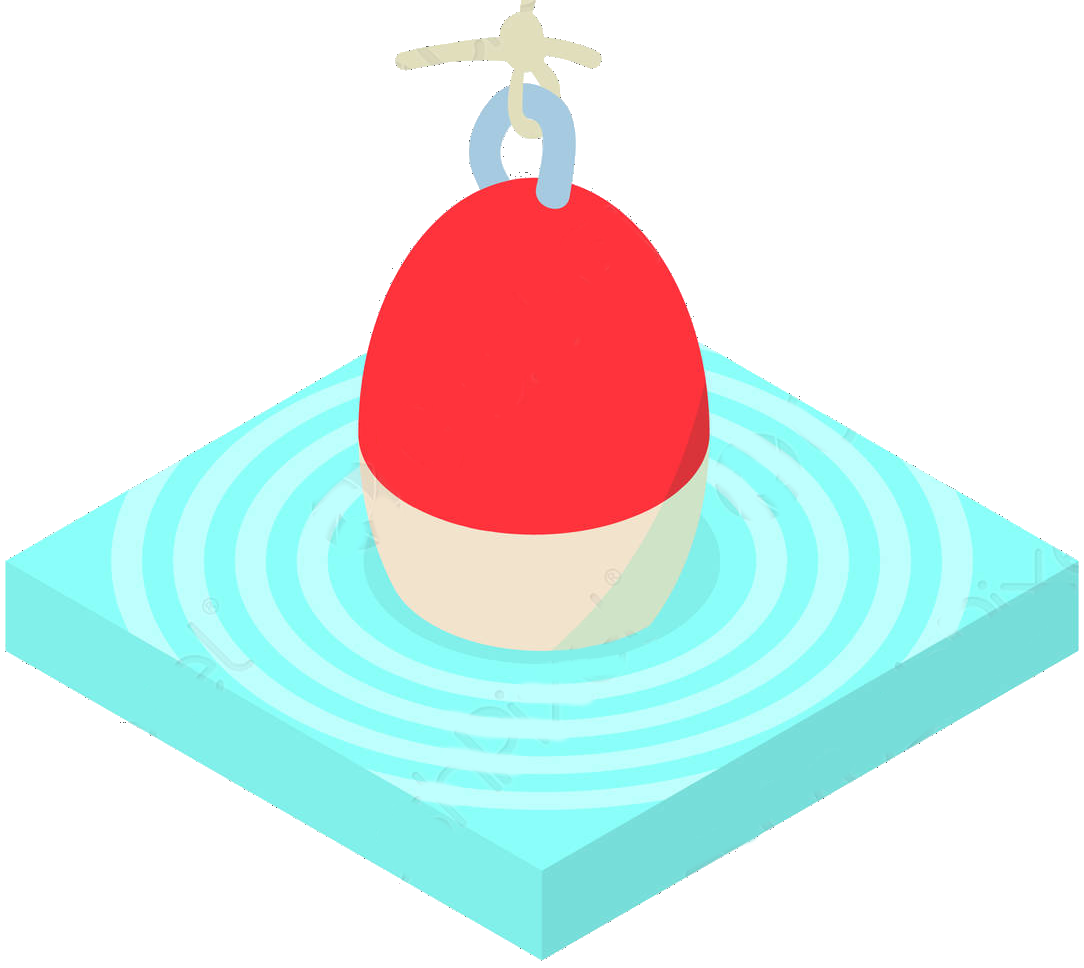
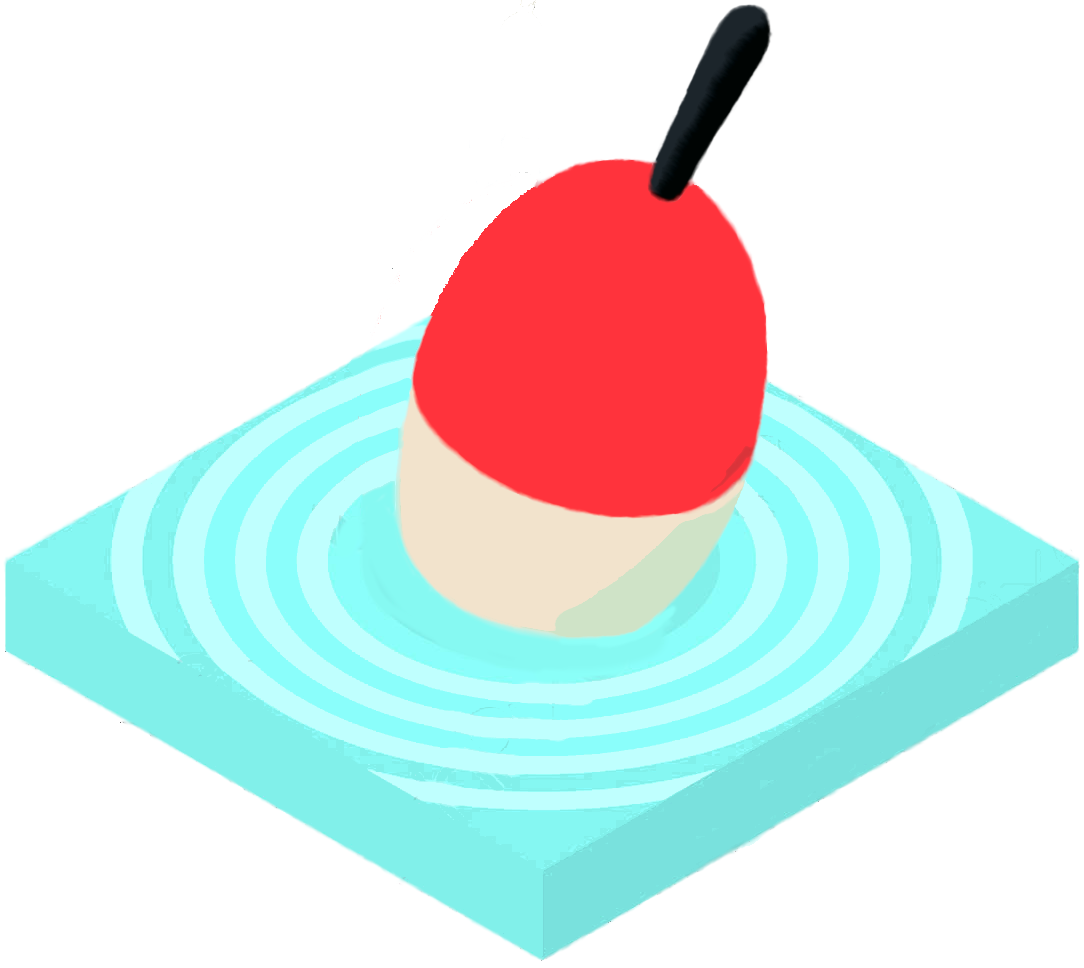
Update Roadmap, update bobber image

Changed region(s): [[0.3044, 0.0, 0.7306, 0.6818], [0.548, 0.5888, 0.5784, 0.6198]]

diff --git a/README.md b/README.md
@@ -32,9 +32,9 @@
    - [ ] Ability to change the image on the S3 bucket 
 - [x] Ability to delete Catch Reports
    - [ ] Delete the image from S3 bucket aswell
+- [ ] Styling
+   - [ ] Popup
+   - [ ] Catch Report Form
 - [ ] Write tests
-.
-.
-.
 - [ ] Launch on AWS 
    - [ ] Create Cloudformation templates
